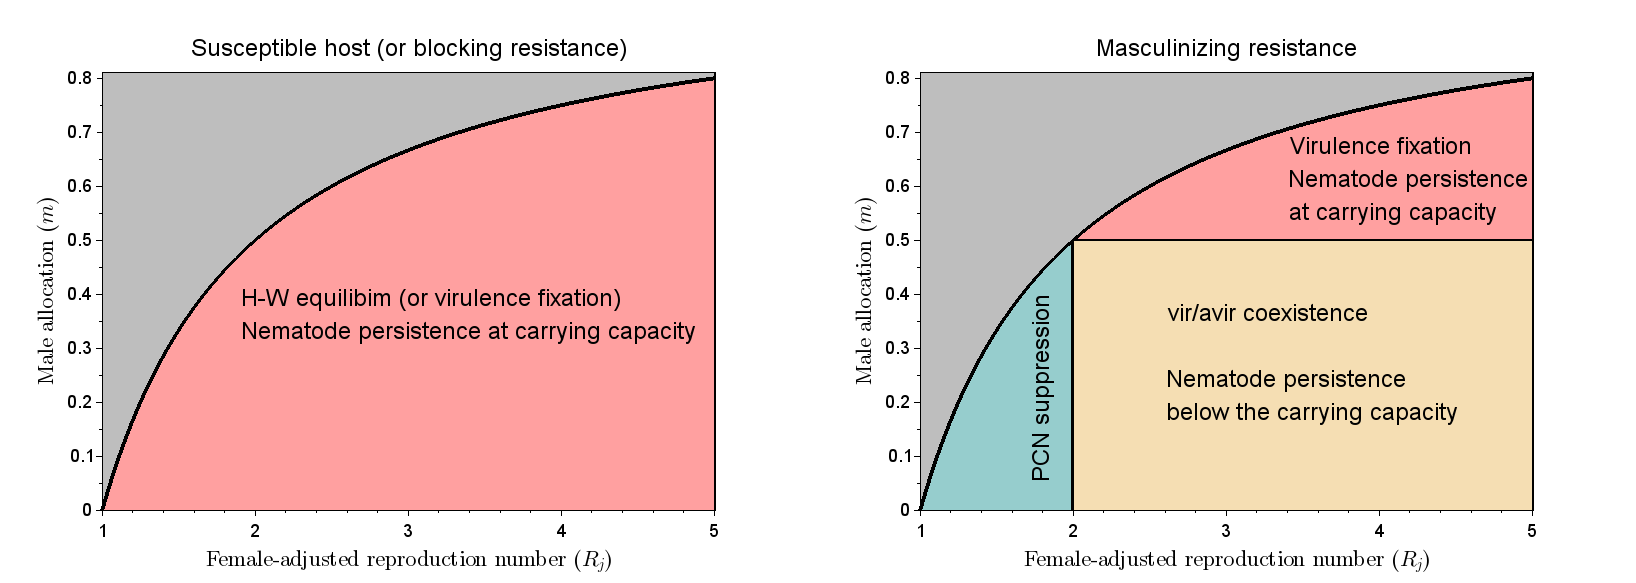
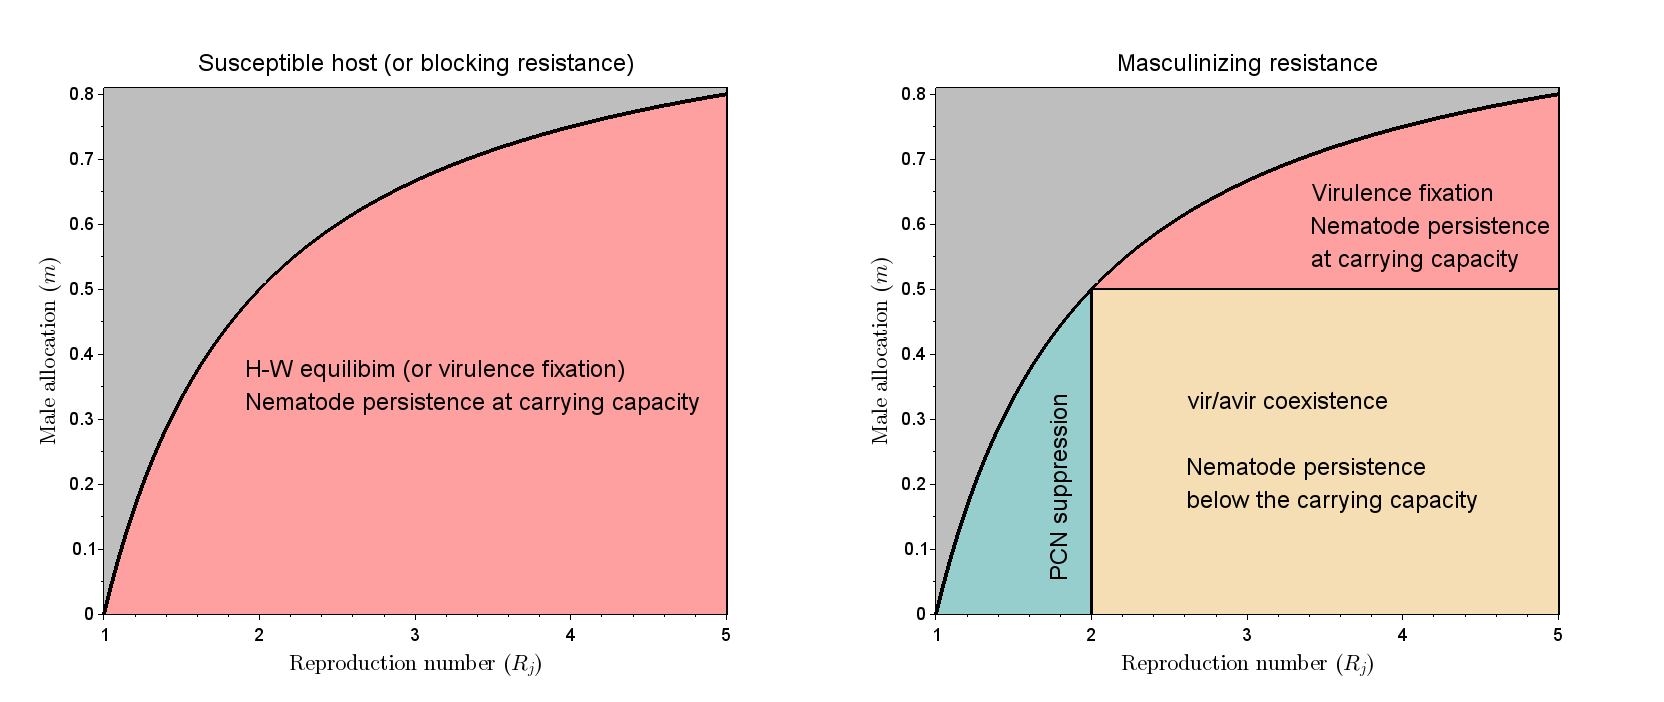
New version of the paper

diff --git a/nemo.py b/nemo.py
@@ -41,10 +41,10 @@ st.session_state.setdefault("deployment_type", "RNNNNRNNNNRNNNNRNNNNR")
 st.session_state.setdefault("bc", 0.0)
 st.session_state.setdefault("s", 0.25)
 st.session_state.setdefault("m", 0.35)
-st.session_state.setdefault("ha", 0.1705)
-st.session_state.setdefault("v", 0.9031)
+st.session_state.setdefault("ha", 0.17)
+st.session_state.setdefault("v", 0.90)
 st.session_state.setdefault("M", 15.9)
-st.session_state.setdefault("k", 300)
+st.session_state.setdefault("e", 300)
 st.session_state.setdefault("detection_threshold", -3)
 step = 0.01
                             
@@ -56,10 +56,10 @@ st.session_state.setdefault("reset_deployment_type", "RNNNNRNNNNRNNNNRNNNNR")
 st.session_state.setdefault("reset_bc", 0.0)
 st.session_state.setdefault("reset_s", 0.25)
 st.session_state.setdefault("reset_m", 0.35)
-st.session_state.setdefault("reset_ha", 0.1705)
-st.session_state.setdefault("reset_v", 0.9031)
+st.session_state.setdefault("reset_ha", 0.17)
+st.session_state.setdefault("reset_v", 0.90)
 st.session_state.setdefault("reset_M", 15.9)
-st.session_state.setdefault("reset_k", 300)
+st.session_state.setdefault("reset_e", 300)
 st.session_state.setdefault("reset_detection_threshold", -3)
 
 # Set Streamlit app title
@@ -128,7 +128,7 @@ def generate_main_plot(tot,f_A, f_a, Y, Z,R):
     fig, ax = plt.subplots(figsize=(14, 10), dpi=100)
     nb_gen = len(tot)
     ax.plot(np.arange(1, nb_gen+1), tot, '-r', linewidth=3)
-    th = st.session_state.k*10**(st.session_state.detection_threshold)
+    th = st.session_state.e*10**(st.session_state.detection_threshold)
     ax.plot([0, nb_gen], [th, th], 'k--', label='Detection threshold')
     ax.set_xlabel("Generations", fontsize=40)
     ax.set_ylabel("PCNs/g of soil (log)", fontsize=40)
@@ -183,17 +183,17 @@ def generate_main_plot(tot,f_A, f_a, Y, Z,R):
 
 if main_tab == "Introduction":
     st.markdown("# Introduction")
-    st.markdown("- Globodera pallida, or Potato Cyst Nematode (PCN), is a serious quarantine pest that threatens potato crops worldwide.")
+    st.markdown("- Globodera pallida, or Pale Cyst Nematode (PCN), is a serious quarantine pest that threatens potato crops worldwide.")
     st.markdown("- The use of resistant potato cultivars is a popular sustainable pest control measure, but the evolution of PCN populations towards virulence can reduce the long-term effectiveness of resistance-based control.")
     st.markdown("- Masculinizing resistance prevents avirulent nematodes from producing females, which could ultimately eliminate avirulent PCNs from the population.")
     st.markdown("- However, [Shouten's model](https://link.springer.com/article/10.1007/BF03041409) tracing genotypic frequencies in real conditions shows that the long-term fixation of the virulence allele does not necessarily occur despite the selection pressure.")
     st.markdown("- Avirulent nematodes, which are exclusively male, survive as heterozygotes by mating with virulent females, weakening the PCN's reproduction number.")
     st.markdown("- Biocontrol efficiency required for PCN long-term suppression under resistant plants is lower than under susceptible plants.")
     st.markdown("- But the efficiency required even under resistant plant can be very high, thus unachievable")
-    st.markdown("- Potato Cultivation Breaks (PCBs) are proven to be an efficient and sustainable lever of PCN control, but required long periods of cultivating non-host crops or leaving a bare soil")
-    st.markdown("- Combining resistant cultivars with biocontrol methods and PCBs appears to be an effective solution for speeding up the suppression of PCN populations.")
-    st.markdown("- The model presented for this simulation tracks at the same time the PCN genetics and dynamics to describe selection for virulence and biocontrol+PCB size needs under resistance.")
-    st.markdown("- The user is able to enter the type of crop for each season - S for Susceptible, R for Resistant, N for Non-host (corresponding to a PCB) - and the app will draw the PCN population trajectories as well as the corresponding allele frequencies.")
+    st.markdown("- Rotations are proven to be an efficient and sustainable lever of PCN control, but required long periods of cultivating non-host crops or leaving a bare soil")
+    st.markdown("- Combining resistant cultivars with biocontrol methods and rotations appears to be an effective solution for speeding up the suppression of PCN populations.")
+    st.markdown("- The model presented for this simulation tracks at the same time the PCN genetics and dynamics to describe selection for virulence and biocontrol+rotation size needs under resistance.")
+    st.markdown("- The user is able to enter the type of crop for each season - S for Susceptible, R for Resistant, N for Non-host (corresponding to a rotation) - and the app will draw the PCN population trajectories as well as the corresponding allele frequencies.")
 
 elif main_tab == "Model & Parameters":
     st.markdown("# Model & parameters")
@@ -202,79 +202,62 @@ elif main_tab == "Model & Parameters":
     checkbox = st.checkbox("See the simple models")
     if checkbox:
         st.markdown("$X_n \longrightarrow AA$ PCNs, $\qquad Y_n \longrightarrow Aa$ PCNs, $\qquad Z_n \longrightarrow aa$ PCNs")
-        st.markdown("- When susceptible plants are deployed in every generation and PCBs of size $j$ are always implemented between generations, the overall PCN population $N_n$ at generation $n$ is given by the law:")
+        st.markdown("- When susceptible plants are deployed in every generation and $j$-years rotations are always implemented between generations, the overall PCN population $N_k$ at generation $k$ is given by the law:")
         st.latex(r'''
         \begin{equation*}
-            N_{n+1}  = \frac{R_jMN_n}{M + N_n}, 
+            N_{k+1} = (1-m)R_j \displaystyle\frac{K N_k}{K+ N_k\big( (1-m)R_j - 1 \big)} 
         \end{equation*}
         ''')
-        st.markdown("Where $\bar{R}_j(1-m)$ is the PCN female-adjusted basic reproduction number under $j$-year PCBs, and M is a population limiting fator due to competition. The different genotype frequencies are given by the Hardy-Weinberg principle.")
-        st.markdown("- When resistance plants are deployed in every generation, the overall PCN population $N_n$ at generation $n$ is given by the law:")
+        st.markdown("Where $R_j$ is the PCN reproduction number under $j$-year rotations (corresponding to a basic reproduction number $(1-m)R_j$) and K is the nematode carrying capacity. The different genotype frequencies are given by the Hardy-Weinberg principle.")
+        st.markdown("- When resistance plants are deployed in every generation, the overall PCN population $N_k$ at generation $k$ is given by the law:")
         st.latex(r'''
         \begin{equation*}
             \left\{\begin{aligned}
-                N_{n+1} &= R_jMv_n\displaystyle\frac{N_n}{M+N_n}\\
-                v_{n+1} &= \displaystyle\frac{mv_n + \frac{1}{2}(1-v_n)}{mv_n + (1-v_n)}
+                N_{k+1} &= (1-m)R_j \displaystyle\frac{K N_k}{K+ N_k\big( (1-m)R - 1 \big)}v_k\\
+                v_{k+1} &= \displaystyle\frac{m v_k + \frac{1}{2}(1-v_k)}{m v_k + (1-v_k)}
         \end{aligned}\right.
         \end{equation*}
         ''')
-        st.markdown("Where $N_n$ tracks the population dynamics while $v_n$ tracks the frequency of virulent nematodes (aa) and $m$ represents the relative proportion of juveniles that develop into virulent males to those that develop into avirulent males")
+        st.markdown("Where $N_k$ tracks the population dynamics while $v_k$ tracks the frequency of virulent nematodes (aa) and $m$ represents the relative proportion of juveniles that develop into virulent males to those that develop into avirulent males")
     st.markdown("### Basic reproduction number")
     checkbox = st.checkbox("Read the text")
     if checkbox:
-        st.markdown("- When regular $j$-years PCBs are implemented along with a biocontrol of efficacy $\beta$, the basic reproduction number takes the following form.")
+        st.markdown("- When regular $j$-years rotations are implemented along with a biocontrol of efficacy $b$, the $R_j$ reproduction number takes the following form.")
         st.latex(r'''
-        \begin{equation*}G_j = ks[\nu(1-h_a)(1-\beta_c)]^{j+1}(1-m),
+        \begin{equation*}R_j = es[w(1-h_a)(1-b)]^{j+1},
         \end{equation*}
         ''')
         st.markdown("Where s is the proportion of larvae that survive the larval stage to become adults.")
         
         markdown_text = r'''
-        We introduce the notion of `female-adjusted basic reprodution number' $\bar{R}_j = R_j/(1-m)$.
         
-        Blocking resistances quickly become obsolete as the resistance gene is fixed by natural selection. Thus, as with susceptible plants, the long-term suppression of PCNs must be ensured by a biocontrol that brings the female-adjusted basic reprodution number $\bar{R}_j$ of PCNs below 1/(1-m).
+        
+        Blocking resistances quickly become obsolete as the resistance gene is fixed by natural selection. Thus, as with susceptible plants, the long-term suppression of PCNs must be ensured by a biocontrol that brings the nematode reprodution number $R_j$ below 1/(1-m).
 
         On the other hand, masculinizing resistances keep a partial resistance indefinitely. This is conditioned by the male allocation rate $m$. When $m < \frac{1}{2}$, which is the case in real setups, it suffices to ensure the long-term suppression of PCNs
-        that control efforts bring the female-adjusted basic reproduction number $\bar{R}_j$ below $2$. The partial resistance is ensured by the survival
+        that control efforts bring the reproduction number $R_j$ below $2$. The partial resistance is ensured by the survival
         of susceptible phenotype through the pairing of avirulent males with virulent females.
         '''
 
         st.markdown(markdown_text)
     image2_path = "figs/scenario_diagram.png"
     st.image(image2_path, width=1000)
-    checkbox = st.checkbox("Read annotations")
-    if checkbox:
-        markdown_text_annotations = r'''
-        (1) $25\%$ biocontrol efficacy without PCB
-        
-        (2) $36\%$ biocontrol efficacy without PCB
-        
-        (3) $36\%$ biocontrol efficacy with 1-year PCB
-        
-        (4) $36\%$ biocontrol efficacy with 2-years PCB
-        
-        (5) $36\%$ biocontrol efficacy with 3-years PCB
-        
-        (6) $36\%$ biocontrol efficacy with 4-years PCB
-        '''
-        
-        st.markdown(markdown_text_annotations)
     st.markdown("### Parameters")
     table_md = r'''
     | Parameter | Description | Value | Range |
     | --- | --- | --- | --- |
     | $s$ | Survival rate of hatched larvae | $25\%$ | [0,100\%] |
     | $m$ | Male allocation on susceptible plants | $35\%$ | (0, 35\%] |
-    | $k$ | Average number of eggs per cyst | 300 | [200, 500] |
-    | $\nu$ | Viability of encysted larvae | $90.31\%$ | [80, 99.9\%] |
-    | $h_a$ | Yearly rate of accidental PCN hatching | 17.05% | [0, 35\%] |
-    | $\beta_c$ | Efficacy of the biocontrol | variable | [0, 99.9\%] |
-    | $M$ | PCN limiting factor | 15.9  | --ajusted-- |
+    | $e$ | Average number of eggs per cyst | 300 | [200, 500] |
+    | $w$ | Yearly viability of encysted larvae | $90\%$ | [80, 99.9\%] |
+    | $h_a$ | Yearly rate of accidental hatching | 17% | [0, 35\%] |
+    | $b$ | Efficacy of the biocontrol | variable | [0, 99.9\%] |
+    | $K$ | Nematode carrying capacity| 200 g$^{-1}$ soil | --ajusted-- |
     |  | Detection (cleaning) threshold | 0.01 cyst/g of soil | [0.01, 0.1] cyst/ g of soil |
     '''
     st.markdown(table_md)
-    st.markdown("In this table as in the simulation, the **efficacy of biocontrol** is modulable and we can analyze its effect on the PCN reproduction number and suppression. Other modulable parameters for simulation are the **initial frequency of virulence allele** and the **initial soil infestation**.")
-    st.markdown("The detection threshold defines the PCN level below which the field is considered clean")
+    #st.markdown("In this table as in the simulation, the **efficacy of biocontrol** is modulable and we can analyze its effect on the PCN reproduction number and suppression. Other modulable parameters for simulation are the **initial frequency of virulence allele** and the **initial soil infestation**.")
+    #st.markdown("The detection threshold defines the PCN level below which the field is considered clean")
     st.markdown("The simulation allows to choose the plant breed which is deployed per season. The other parameters, very little variable and estimated on literature data, are in the Settings menu.")
     # Create a checkbox to toggle the hidden content
     checkbox = st.checkbox("See the general model")
@@ -282,16 +265,16 @@ elif main_tab == "Model & Parameters":
         st.markdown("- More generally, under arbitrary deployment of susceptible and resistant plants, the model reads:")
         st.latex(r'''
         \begin{equation*}
-                \left\{\begin{aligned}
-                X_{n+1} &= \frac{G_{j_n} M}{M + (X_n+Y_n+Z_n)} \displaystyle\frac{M_A(n)F_A(n)\big(X_n + \frac{1}{2}Y_n\big)^2}{M_A(n)(X_n+Y_n) + M_a(n)Z_n}, \\
-                \\
-                Y_{n+1} &= \frac{G_{j_n} M}{M + (X_n+Y_n+Z_n)}  \displaystyle\frac{M_A(n)\big(F_a(n)Z_n + \frac{1}{2}F_A(n)Y_n \big)\big(X_n + \frac{1}{2}Y_n \big) + F_A(n)\big(X_n + \frac{1}{2}Y_n \big)\big(M_a(n)Z_n + \frac{1}{2}M_A(n)Y_n \big) }{M_A(n)(X_n+Y_n) + M_a(n)Z_n},\\
-                \\
-                Z_{n+1} &= \frac{G_{j_n} M}{M + (X_n+Y_n+Z_n)} \displaystyle\frac{\big(F_a(n)Z_n + \frac{1}{2}F_A(n)Y_n\big)\big(M_a(n)Z_n + \frac{1}{2}M_A(n)Y_n\big)}{M_A(n)(X_n+Y_n) + M_a(n)Z_n},
-            \end{aligned}\right.
-        \end{equation*}
+            \left\{\begin{aligned}
+            X_{k+1} &= \frac{G_{j_k} M}{M + (X_k+Y_k+Z_k)} \displaystyle\frac{M_A(k)F_A(k)\big(X_k + \frac{1}{2}Y_k\big)^2}{M_A(k)(X_k+Y_k) + M_a(k)Z_k}, \\
+        \\
+        Y_{k+1} &=  \frac{G_{j_k} M}{M + (X_k+Y_k+Z_k)}  \displaystyle\frac{M_A(k)\big(F_a(k)Z_k + \frac{1}{2}F_A(k)Y_k \big)\big(X_k + \frac{1}{2}Y_k \big) + F_A(k)\big(X_k + \frac{1}{2}Y_k \big)\big(M_a(k)Z_k + \frac{1}{2}M_A(k)Y_k \big) }{M_A(k)(X_k+Y_k) + M_a(k)Z_k},\\
+        \\
+        Z_{k+1} &= \frac{G_{j_k} M}{M + (X_k+Y_k+Z_k)} \displaystyle\frac{\big(F_a(k)Z_k + \frac{1}{2}F_A(k)Y_k\big)\big(M_a(k)Z_k + \frac{1}{2}M_A(k)Y_k\big)}{M_A(k)(X_k+Y_k) + M_a(k)Z_k},
+        \end{aligned}\right.
+    \end{equation*}
         ''')
-        st.markdown("Where $F_A$ (resp. $F_a$) is the proportion larvae that becomes avirulent (resp. virulent) female adults, and $G_{j_n}$ is the generation $n$'s growth factor provided there is a size-$j_n$ PCB after generation $n$.")
+        st.markdown("Where $F_A$ (resp. $F_a$) is the proportion larvae that becomes avirulent (resp. virulent) female adults, $G_{j_k}$ is the generation $k$'s growth factor ($G_{j_k} = e[w(1-h_a)(1-b)]^{j_k+1}$ ) provided there is are $j_k$-year rotations after generation $k$, and $M$ is a limiting factor.")
     # Add a link to expand/collapse the hidden content
     #st.markdown("[Expand / Collapse](javascript:void(0);)")
     
@@ -299,18 +282,17 @@ elif main_tab == "Model & Parameters":
 elif main_tab == "Simulation":
     st.markdown("# Simulation")
     if st.button("Reset all"):
-        st.session_state.a_freq = st.session_state.meset_a_freq
-        st.session_state.init_infest_cyst = st.session_state.meset_init_infest_cyst
-        st.session_state.deployment_type = st.session_state.meset_deployment_type
-        st.session_state.bc = st.session_state.meset_bc
-        st.session_state.sav = st.session_state.meset_sav
-        st.session_state.sv = st.session_state.meset_sv
-        st.session_state.m = st.session_state.meset_r
-        st.session_state.ha = st.session_state.meset_ha
-        st.session_state.v = st.session_state.meset_v
-        st.session_state.M = st.session_state.meset_M
-        st.session_state.k = st.session_state.meset_k
-        st.session_state.detection_threshold = st.session_state.meset_detection_threshold
+        st.session_state.a_freq = st.session_state.reset_a_freq
+        st.session_state.init_infest_cyst = st.session_state.reset_init_infest_cyst
+        st.session_state.deployment_type = st.session_state.reset_deployment_type
+        st.session_state.bc = st.session_state.reset_bc
+        st.session_state.s = st.session_state.reset_s
+        st.session_state.m = st.session_state.reset_m
+        st.session_state.ha = st.session_state.reset_ha
+        st.session_state.v = st.session_state.reset_v
+        st.session_state.M = st.session_state.reset_M
+        st.session_state.e = st.session_state.reset_e
+        st.session_state.detection_threshold = st.session_state.reset_detection_threshold
     # Other parameters
     colu1, colu2, colu3 = st.columns(3)
     with colu1:
@@ -367,7 +349,7 @@ elif main_tab == "Simulation":
     #st.markdown(str(jn))
     if u!=[] and len(u)>len(jn):
         #st.markdown("This is it")
-        init_juveniles = st.session_state.init_infest_cyst*st.session_state.k
+        init_juveniles = st.session_state.init_infest_cyst*st.session_state.e
         J_AA_0 = init_juveniles * (1-st.session_state.a_freq)**2
         J_Aa_0 = init_juveniles * 2 * st.session_state.a_freq*(1-st.session_state.a_freq)
         J_aa_0 = init_juveniles * (st.session_state.a_freq)**2
@@ -375,22 +357,22 @@ elif main_tab == "Simulation":
         # --------------------- thresholds ----------------------------- #
         # ------ jn-growth factors ------------
 
-        Gjn = [st.session_state.k * (st.session_state.v * (1 - st.session_state.ha) * (1 - st.session_state.bc)) ** (j + 1) for j in jn]
+        Gjn = [st.session_state.e * (st.session_state.v * (1 - st.session_state.ha) * (1 - st.session_state.bc)) ** (j + 1) for j in jn]
 
         # -------- basic reproduction number ---------
-        G0 = st.session_state.k * (st.session_state.v * (1 - st.session_state.ha))
+        G0 = st.session_state.e * (st.session_state.v * (1 - st.session_state.ha))
         R0 = G0 * st.session_state.s * (1 - st.session_state.m)
 
         # ------  alpha -----------------
         alpha = st.session_state.m
 
         # ------ Effective population number -----------
-        # ------ valid if PCB are same-sized -----------
+        # ------ valid if rotation are same-sized -----------
         if all(j == jn[0] for j in jn) and len(jn)>= 1:
             j = jn[0]
-            Gj = st.session_state.k * (st.session_state.v * (1 - st.session_state.ha) * (1 - st.session_state.bc)) ** (j + 1)
+            Gj = st.session_state.e * (st.session_state.v * (1 - st.session_state.ha) * (1 - st.session_state.bc)) ** (j + 1)
             Rj = R0 * (Gj / G0)
-            #st.markdown("Regular PCB of"); st.markdown(jn[0])
+            #st.markdown("Regular rotation of"); st.markdown(jn[0])
         else:
             Rj = float('inf')
     
@@ -447,6 +429,6 @@ elif main_tab == "Settings":
     st.markdown("These parameters describe the basic biology of PCNs. They are retrieved from intensive literature review and cautious estimations. Please edit these settings if and only if you have enough knowledge!!")
     st.session_state.s = st.slider("Survival rate of hatched larvae (%):", min_value=0.0, max_value=100.0, value=st.session_state.s*100, step=0.1)/100
     st.session_state.m = st.slider("Average male allocation on susceptible potato (%):", min_value=0.0, max_value=40.0, value=st.session_state.m*100, step=0.1)/100
-    st.session_state.v = st.slider("Viability of encysted juveniles (%):", min_value=80.0, max_value=99.9, value=st.session_state.v*100, step=0.001)/100
-    st.session_state.ha = st.slider("Yearly rate of accidental hatching (%):", min_value=0.0, max_value=35.0, value=st.session_state.ha*100, step=0.001)/100
-    st.session_state.k = st.slider("Average eggs per cyst:", min_value=200, max_value=500, value=st.session_state.k, step=1)
+    st.session_state.v = st.slider("Viability of encysted juveniles (%):", min_value=80, max_value=100, value=int(st.session_state.v*100), step=1)/100
+    st.session_state.ha = st.slider("Yearly rate of accidental hatching (%):", min_value=0, max_value=35, value=int(st.session_state.ha*100), step=1)/100
+    st.session_state.e = st.slider("Average eggs per cyst:", min_value=200, max_value=500, value=st.session_state.e, step=1)
